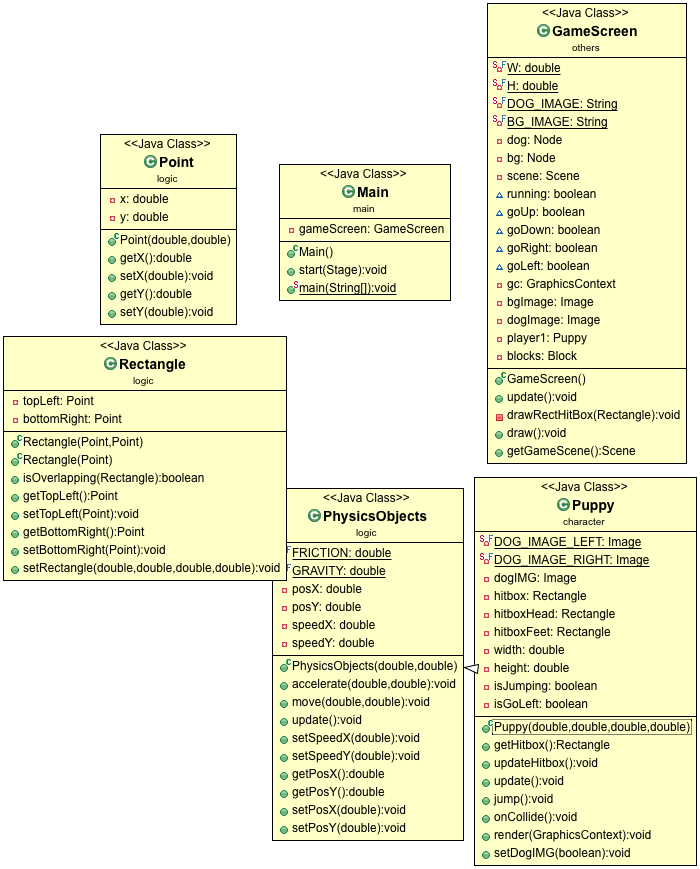
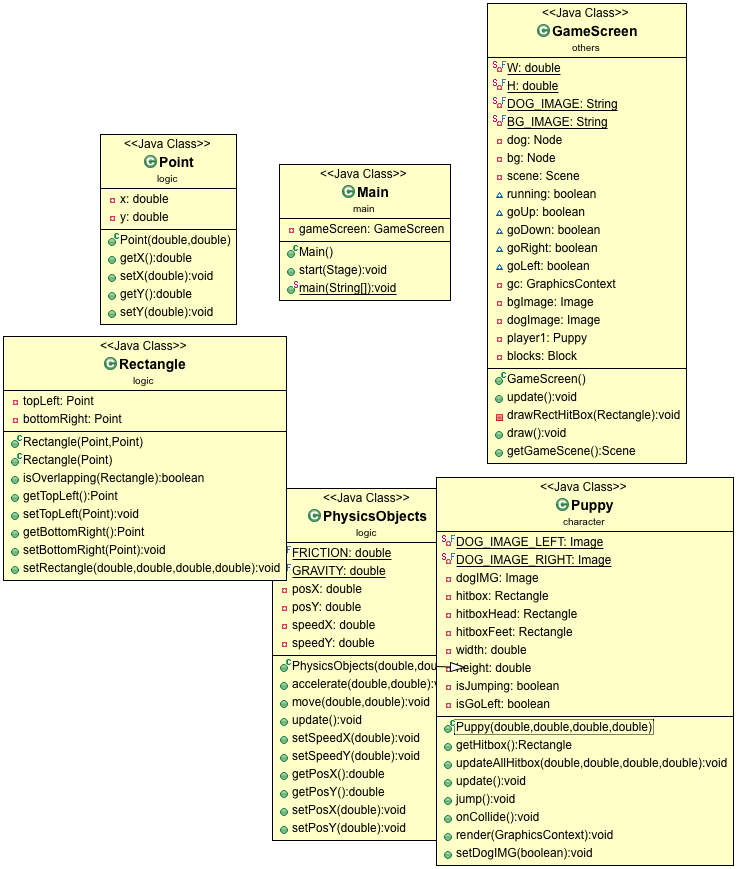
add updateAllHitbox in class Puppy

Changed region(s): [[0.0, 0.0, 1.0, 1.0]]

diff --git a/src/character/Puppy.java b/src/character/Puppy.java
@@ -23,13 +23,14 @@ public class Puppy extends PhysicsObjects {
 	
 	
 	
-	public Puppy(double posX, double posY, double width, double height) {
-		super(posX, posY);
+	public Puppy(double x, double y, double width, double height) {
+		super(x, y);
 		this.width = width;
 		this.height = height;
-		hitbox = new Rectangle(new Point(posX, posY), new Point(posX+width, posY+height));
-		hitboxHead = new Rectangle(new Point(posX, posY), new Point(posX+width, posY+height/2));
-		hitboxFeet = new Rectangle(new Point(posX, posY+height/2), new Point(posX+width, posY+height));
+		updateAllHitbox(x, y, width, height);
+//		hitbox = new Rectangle(new Point(x, y), new Point(x+width, y+height));
+//		hitboxHead = new Rectangle(new Point(x, y), new Point(x+width, y+height/2));
+//		hitboxFeet = new Rectangle(new Point(x, y+height/2), new Point(x+width, y+height));
 
 	}
 	
@@ -37,17 +38,20 @@ public class Puppy extends PhysicsObjects {
 		return hitbox;
 	}
 	
-	public void updateHitbox() {
-		
+	public void updateAllHitbox(double x,double y,double width, double height) {
+		hitbox.setRectangle(x, y, width, height);
+		hitboxHead.setRectangle(x, y, width, height/2);
+		hitboxFeet.setRectangle(x, y+height/2, width, height);
 	}
 	
 	@Override 
 	public void update() {
 		super.update();
-		hitbox.getTopLeft().setX(getPosX());
-		hitbox.getTopLeft().setY(getPosY());
-		hitbox.getBottomRight().setX(getPosX()+width);
-		hitbox.getBottomRight().setY(getPosY()+height);
+		updateAllHitbox(height, height, width, height);
+//		hitbox.getTopLeft().setX(getPosX());
+//		hitbox.getTopLeft().setY(getPosY());
+//		hitbox.getBottomRight().setX(getPosX()+width);
+//		hitbox.getBottomRight().setY(getPosY()+height);
 	}
 		
 	public void jump() {

diff --git a/src/logic/Rectangle.java b/src/logic/Rectangle.java
@@ -43,11 +43,11 @@ public class Rectangle {
 		this.bottomRight = bottomRight;
 	}
 	
-	public void setRectangle(double x,double y,double w, double h) {
+	public void setRectangle(double x,double y,double width, double height) {
 		this.getTopLeft().setX(x);
 		this.getTopLeft().setY(y);
-		this.getBottomRight().setX(x+w);
-		this.getBottomRight().setY(y+h);
+		this.getBottomRight().setX(x+width);
+		this.getBottomRight().setY(y+height);
 	}
 	
 	
